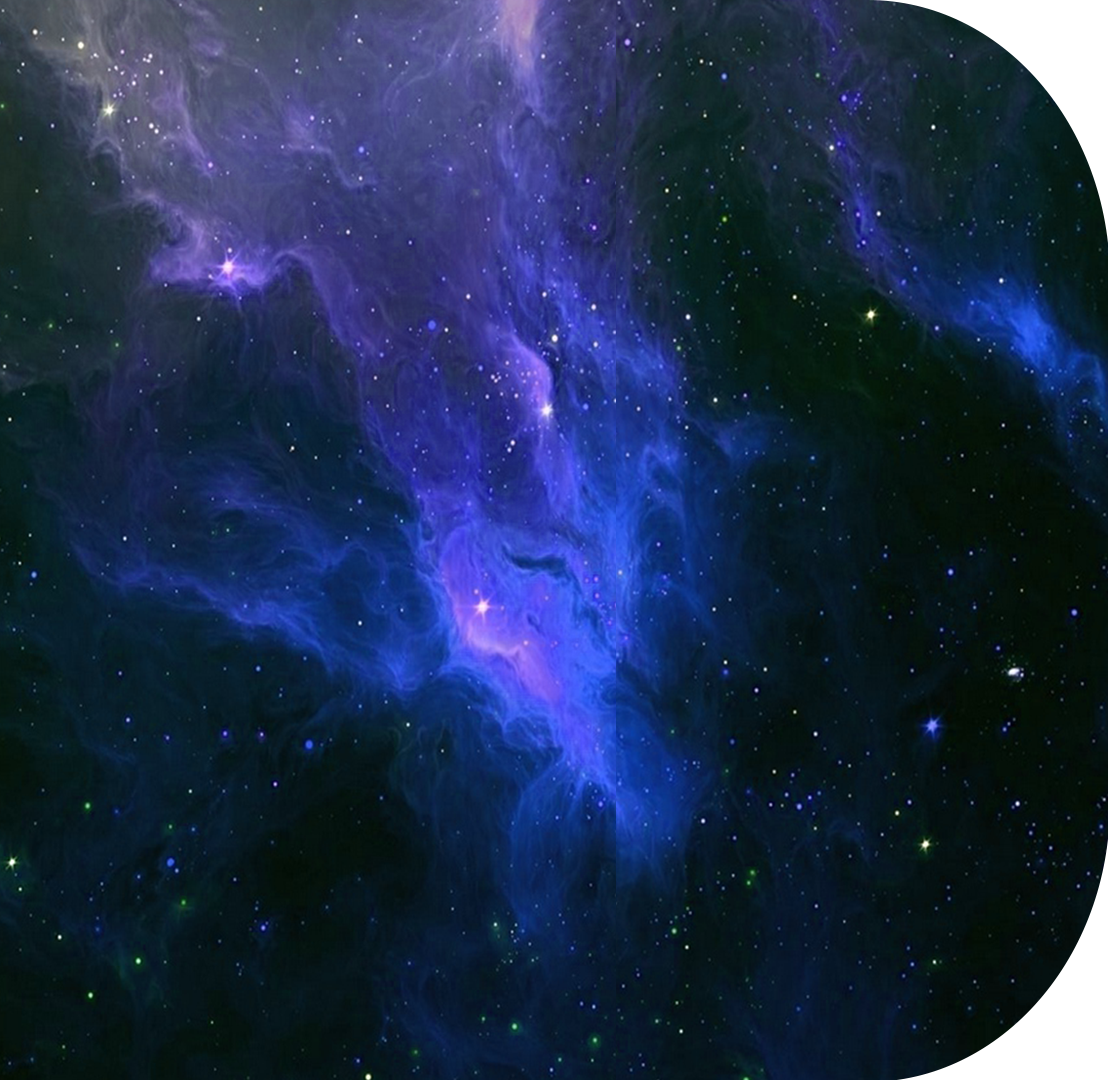
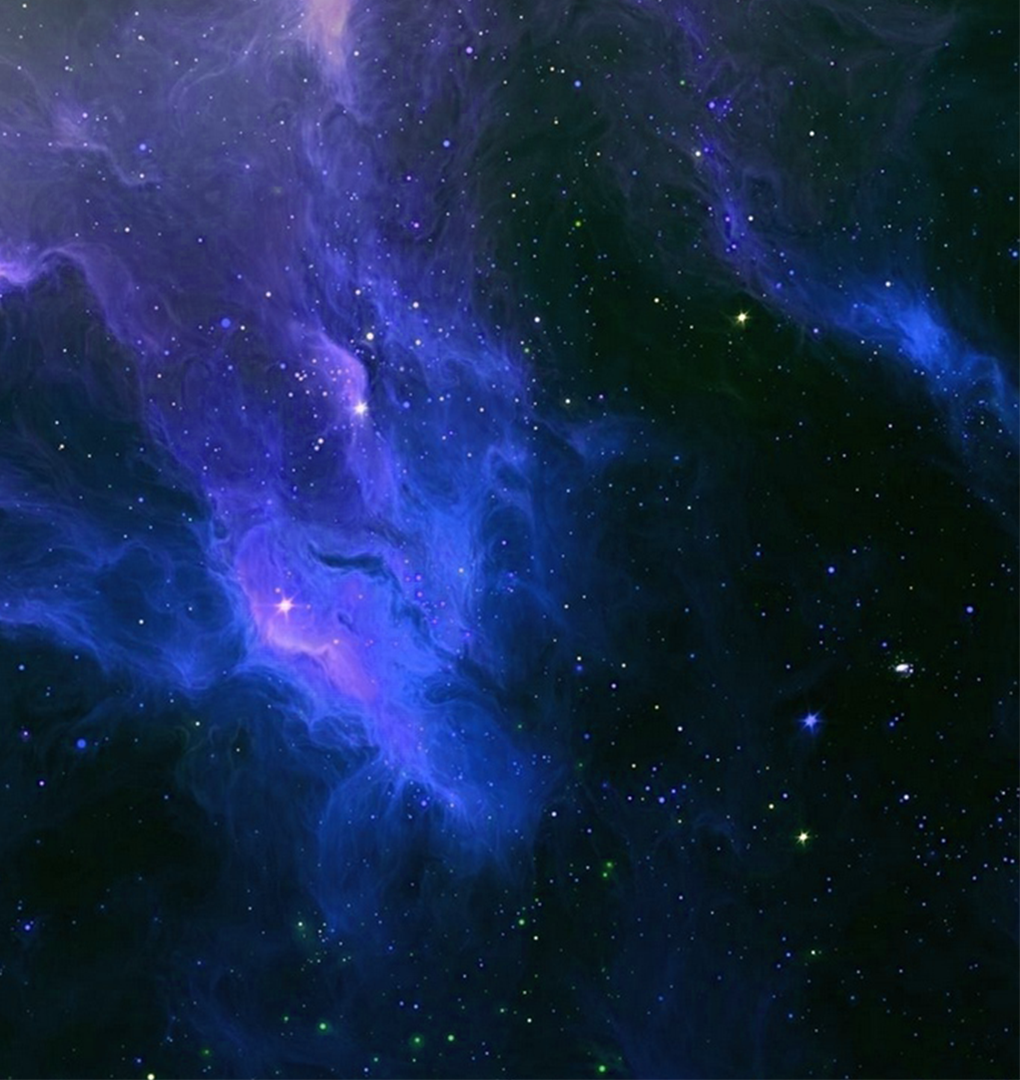
Front-end das telas de login (Entrar / Cadastrar / Login ADM) finalizado.

diff --git a/laravel/Scorpius/resources/views/layouts/templateLogin.blade.php b/laravel/Scorpius/resources/views/layouts/templateLogin.blade.php
@@ -1,8 +1,4 @@
-<!-- 
-    Esse será o template das telas de login (sign in e sign up), 
-    visto que acerca de layout, serão a mesma coisa. Então reaproveitamos o layout. 
--->
-
+<!-- Template das tela de Login (Cadastrar/Entrar/Login ADM) -->
 @include('layouts._includes.top')
 
 <style>
@@ -11,45 +7,37 @@
             display: none !important;
         }
     }
-    .column {
-        float: left;
-    }
-    .column.side {
-        width: 25%;
-    }
-    .column.middle {
-        width: 50%;
-    }
-
     #lado_esquerdo img {
-        width: 100%;
+        float: left;
+        width: 630px;
     }
     #lado_direito{
-        top: 100px;
+        margin-top: 80px;
+    }
+    
+    #nome-scorpius{
+        width: 45%;
+    }
+    #container{
+        margin-right: 0px;
     }
 </style>
 
-<div>
-    <!-- Aqui ficara as coisas que ficam ao lado esquerdo das telas de login, que no caso, 
-    é aquela imagem do background -->
-
-    <div class="column col-md-6" id="lado_esquerdo">
-        <img class="img-fluid" src="{{ asset('img/background-login-2.png') }}">
+<div id="container" class="row">
+    <!-- Lado esquerdo da tela de Login -->
+    <div id="lado_esquerdo" class="col-md-6">
+        @yield('img')
     </div>
-
-
-    <!-- Aqui ficara as coisas que ficam ao lado direito das telas de login, como os campos
-    os botões, etc.. -->
-    <div id="lado_direito" class="column col-md-6">
-
+    <!-- Lado direito da tela de Login -->
+    <div id="lado_direito" class="col-md-6 pr-0">
+        <!-- Parte do topo do lado direito -->
         <div id="lado_direito-topo" class="text-center">
             <a href="{{ route('paginaInicial') }}">
-                <img  width="45%" id="nome-scorpius" src="{{ asset('img/nome-scorpius.png') }}">
+                <img id="nome-scorpius" src="{{ asset('img/nome-scorpius.png') }}">
             </a>
         </div>
-
+        <!-- Parte de baixo do lado direito -->
         <div id="lado_direito-baixo"> @yield('conteudo')</div>
-
     </div>
 </div>
 

diff --git a/laravel/Scorpius/resources/views/loginAdministrativo/index.blade.php b/laravel/Scorpius/resources/views/loginAdministrativo/index.blade.php
@@ -7,24 +7,16 @@
 @section('img')
 <img style="border-bottom-right-radius: 130px;border-top-right-radius: 130px;" class="img-fluid " src="{{ asset('img/background-login-3.png') }}">
 @endsection
+<br>
 <div class="text-center mx-auto col-md-10">
-    <h1>Entre</h1>
-    <h5>Não possui uma conta? <a href="{{ route('cadastrar') }}"> Cadastre-se</a>.</h5>
-    <div id="redes-socias">
-        <a style="font-size: 15px;" href="" class="btn btn-primary btn-lg btn-block" style="font-size:13px;color:white">
-            <i class="fa fa-facebook-square" style="font-size:13px;color:white"></i> Entrar com o Facebook
-        </a>
-        <a style="font-size: 15px;" href="" class="btn btn-danger btn-lg btn-block" style="font-size:13px;color:white">
-            <i class="fa fa-google-plus" style="font-size:13px;color:white"></i> Entrar com o Google
-        </a>
-    </div>
+    <h1>Login administrativo</h1>
 </div>
 <br>
 <form class="form-group mx-auto col-md-10" action="" method="POST">
-    <!-- E-mail -->
+    <!-- Usuário -->
     <div class="form-group">
-        <label for="emailCadastro">E-mail</label>
-        <input class="form-control" placeholder="exemplo@exemplo.com" id="emailCadastro" name="e-mail" type="text" aria-describedby="emailHelp">
+        <label for="usuario">Usuário</label>
+        <input class="form-control" id="usuario" name="usuario" type="text">
     </div>
     <!-- Senha -->
     <div class="form-group">

diff --git a/laravel/Scorpius/resources/views/telaCadastro/prosseguirVerificacaoEmail.blade.php b/laravel/Scorpius/resources/views/telaCadastro/prosseguirVerificacaoEmail.blade.php
@@ -5,13 +5,20 @@
 @section('title', 'Verifique seu e-mail - Scorpius')
 
 @section('conteudo')
-
-<h1> Falta pouco...</h1>
-<h3>
-    Enviamos um email de confirmação para você<br>
-    Por favor verifique sua caixa de mensagem...<br>
-    depois de confirmado voce podera entrar em sua conta.
-</h3>
-<button id="botaoProsseguir">Prosseguir >></button>
+@section('img')
+<img style="border-bottom-right-radius: 130px;border-top-right-radius: 130px;" class="img-fluid " src="{{ asset('img/background-login-3.png') }}">
+@endsection
+<div class="text-center mx-auto col-md-10">
+    <br>
+    <h1>Falta pouco...</h1>
+    <h3>
+        Enviamos um email de confirmação para você.
+        Por favor verifique sua caixa de mensagem...
+        após confirmado, você poderá entrar em sua conta.
+    </h3>
+    <br>
+    <a  style="font-size: 24px" href="{{ route('entrar') }}" class="btn btn-success">
+    <i class='fas fa-arrow-circle-right' style='font-size:24px;color:white'></i> Prosseguir</a>
+</div>
 
 @endsection

diff --git a/laravel/Scorpius/resources/views/layouts/_includes/top.blade.php b/laravel/Scorpius/resources/views/layouts/_includes/top.blade.php
@@ -1,11 +1,25 @@
 <!DOCTYPE html>
 <html lang="pt-br">
+
 <head>
     <meta charset="UTF-8">
     <meta name="viewport" content="width=device-width, initial-scale=1.0">
     <meta http-equiv="X-UA-Compatible" content="ie=edge">
+    <script src='https://kit.fontawesome.com/a076d05399.js'></script>
     <link href="{{ asset('css/app.css') }}" rel="stylesheet">
     <link rel="stylesheet" href="https://cdnjs.cloudflare.com/ajax/libs/font-awesome/4.7.0/css/font-awesome.min.css">
+    <style>
+        @font-face {
+            font-family: orator;
+            src: url("fonts/oratorstd.otf");
+        }
+
+        @font-face {
+            font-family: stark;
+            src: url("fonts/Stark.OTF");
+        }
+    </style>
     <title>@yield('title')</title>
 </head>
+
 <body>

diff --git a/laravel/Scorpius/routes/web.php b/laravel/Scorpius/routes/web.php
@@ -21,6 +21,8 @@ Route::get('/cadastro', ['uses'=>'InicialController@telaCadastro'])->name('cadas
 // Chama o metódo do Inicialcontroller que retorna a página de entrar (login).
 Route::get('/entrar', ['uses'=>'InicialController@telaEntrar'])->name('entrar');
 
+Route::get('/login-administrativo', ['uses' => 'InicialController@loginAdm'])->name('loginAdm');
+
 Route::get('/AlterarDadosCadastrais',['uses'=>'AlterarDadosController@index']);
 
 /**

diff --git a/laravel/Scorpius/resources/views/telaCadastro/index.blade.php b/laravel/Scorpius/resources/views/telaCadastro/index.blade.php
@@ -4,6 +4,10 @@
 @section('title', 'Cadastre-se - Scorpius')
 
 @section('conteudo')
+@section('img')
+<img style="border-bottom-right-radius: 130px;border-top-right-radius: 130px;" class="img-fluid " src="{{ asset('img/background-login-4.png') }}">
+@endsection
+
 <div class="text-center mx-auto col-md-10">
     <h1>Cadastre-se</h1>
     <h4>Já possui uma conta? <a href="{{ route('entrar') }}"> Entre</a></h4>

diff --git a/laravel/Scorpius/app/Http/Controllers/InicialController.php b/laravel/Scorpius/app/Http/Controllers/InicialController.php
@@ -21,5 +21,9 @@ class InicialController extends Controller
         return view('telaEntrar.index');
     }
 
+    public function loginAdm(){
+        return view('loginAdministrativo.index');
+    }
+
 
 }
